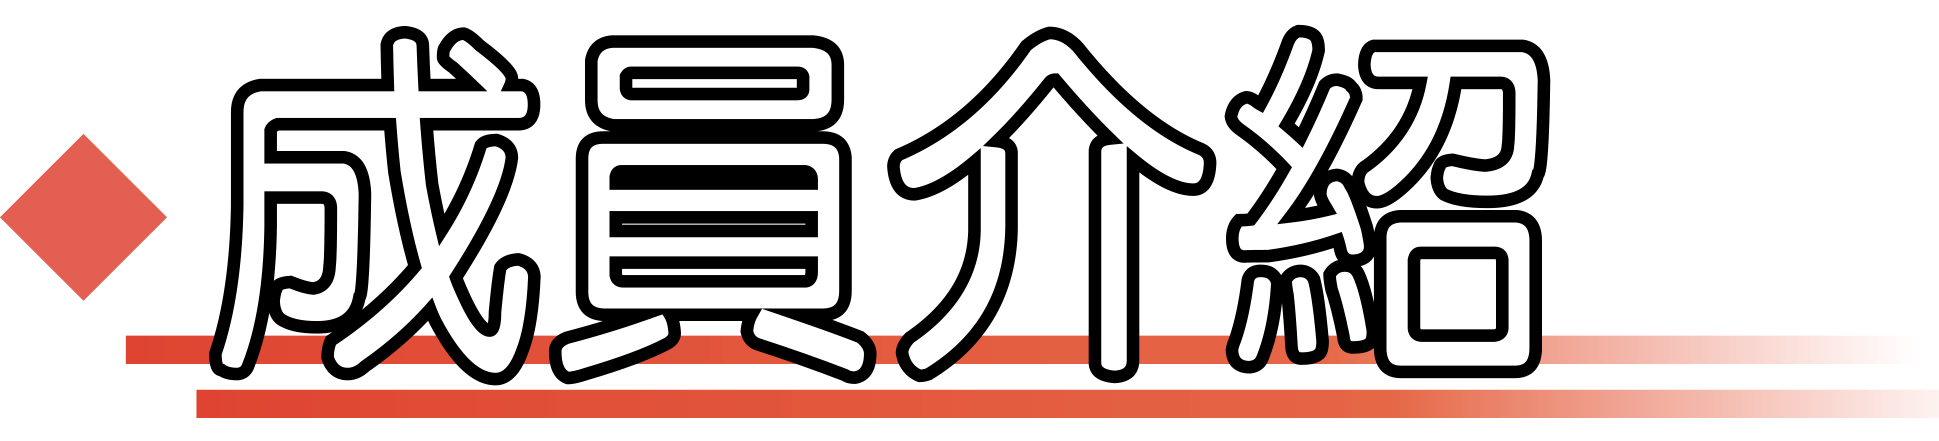
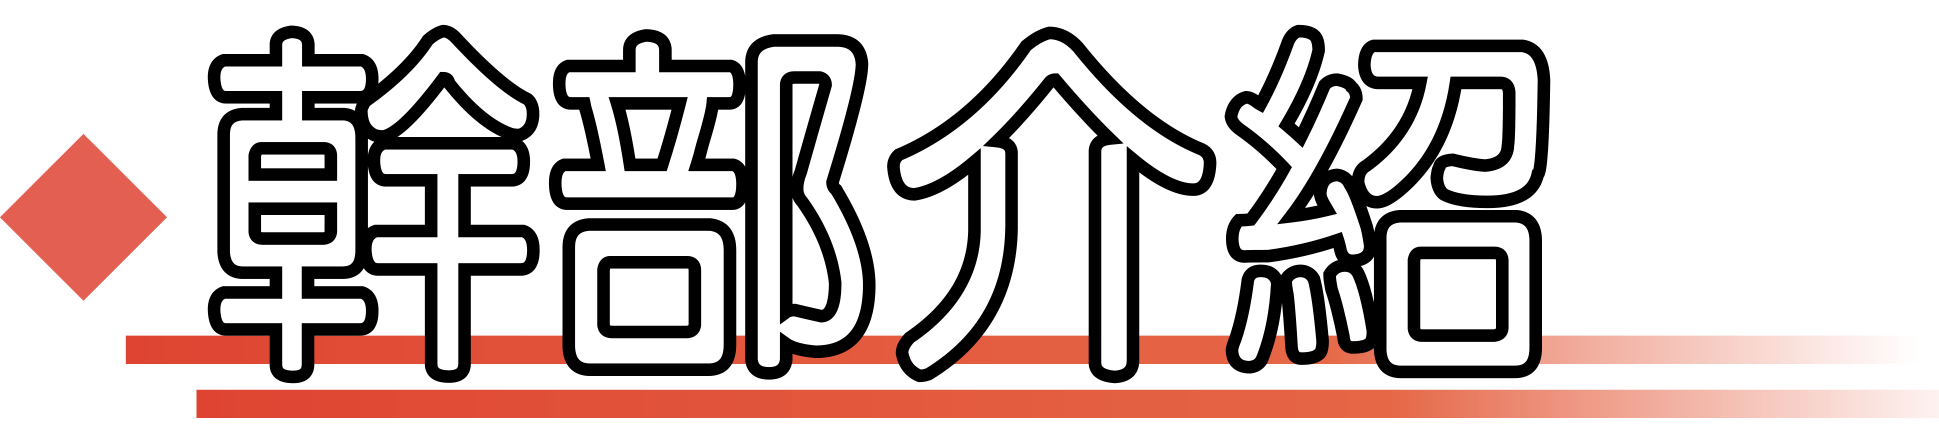
初步完成
初步完成

Changed region(s): [[0.0928, 0.059, 0.4642, 0.8844]]

diff --git a/index.html b/index.html
@@ -43,7 +43,28 @@
      <section id = "ForTitle2" class = "APage" >
        <img src="img/text-title2.png" class = "text-title" ><br>
        <section class = "InText">
-         第二個
+         <table class = "introduce-table" >
+           <tr>
+             <td class = "photo-td" ><a href = "https://www.facebook.com/profile.php?id=100000202016491&ref=ts&fref=ts" target = "_new" ><img src="img/organizers-1.png" class = "organizers" ></a></td>
+             <td class = "text-td" >社長：阿寶<br><br>科系：心理系<br><br>心理正妹一枚，運籌帷幄，掌握戲劇時脈，帶領大家創造美好未來。</td>
+           </tr>
+           <tr>
+             <td class = "photo-td" ><a href = "https://www.facebook.com/julie.nian.56" target = "_new" ><img src="img/organizers-2.png" class = "organizers" ></a></td>
+             <td class = "text-td" >副社長：粘粘<br><br>科系：生科系<br><br>生科正妹一枚，利用對於生物的了解，肢體、動作一手掌握。</td>
+           </tr>
+           <tr>
+             <td class = "photo-td" ><a href = "https://www.facebook.com/profile.php?id=100000194466346" target = "_new" ><img src="img/organizers-3.png" class = "organizers" ></a></td>
+             <td class = "text-td" >總務長：阿公<br><br>科系：資工系<br><br>話劇台柱之一，看透古今中外，悲歡離合的劇情，擅長小丑、三八。<br>粉絲頁：<a href = "https://www.facebook.com/GrandpaWorld" target = "_new" class = "GoTo-href" >點我</a></td>
+           </tr>
+           <tr>
+             <td class = "photo-td" ><a href = "https://www.facebook.com/profile.php?id=100002654291268" target = "_new" ><img src="img/organizers-4.png" class = "organizers" ></a></td>
+             <td class = "text-td" >活動長：菊花<br><br>科系：心理系<br><br>心理正妹一枚，擁有燦爛笑容，身手矯健，精通快速的臨場反應。<br>粉絲頁：<a href = "https://www.facebook.com/pages/%E6%88%B2%E8%8A%B1%E4%B8%AD%E7%9A%84%E8%8F%8A%E8%8A%B1/1401378870134507" target = "_new" class = "GoTo-href" >點我</a></td>
+           </tr>
+           <tr>
+             <td class = "photo-td" ><a href = "https://www.facebook.com/profile.php?id=100000364692411" target = "_new" ><img src="img/organizers-5.png" class = "organizers" ></a></td>
+             <td class = "text-td" >公關長：榴槤<br><br>科系：化工系<br><br>本社最帥小生，要多帥，就有多帥，外太空到內子宮，都有廣大粉絲群。<br>粉絲頁：<a href = "https://www.facebook.com/pages/景連的那些小事/507031376059915" target = "_new" class = "GoTo-href" >點我</a></td>
+           </tr>
+         </table>
        </section>
        <a href = "#ToTop"><img src="img/top.png" class = "top"></a>
      </section>
@@ -51,11 +72,23 @@
      <section id = "ForTitle3" class = "APage" >
        <img src="img/text-title3.png" class = "text-title" ><br>
        <section class = "InText">
-         第三個
+         朵拉瑪斯是一個聯合他校話劇社一起表演的一個活動，<br>
+         無須門票、入場費，演員們辛苦排演，<br>
+         就是要帶給觀眾一個故事，<br>
+         藉由演員們擴大的肢體、表情，<br>
+         帶領觀眾進入角色們的世界。<br><br>
+         朵拉製作特輯：<br>
+         <iframe width="540" height="360" src="//www.youtube.com/embed/8NTx8UJVX3A" frameborder="0" allowfullscreen></iframe>
        </section>
        <a href = "#ToTop"><img src="img/top.png" class = "top"></a>
      </section>
    </div>
   </div>
+  <footer class = "footer-ul" >
+    <ul>
+      <li><a href="https://www.facebook.com/cycudrama" target = "_new" class = "Botton-href" >粉絲專頁</a></li>
+      <li><a href="https://www.facebook.com/profile.php?id=100000194466346" target = "_new" class = "Botton-href" >聯絡製作人</a></li>
+    </ul>
+  </footer>
 </body>
 </html>

diff --git a/Isee.css b/Isee.css
@@ -55,3 +55,51 @@ body{
 .APage{
 
 }
+
+.organizers{
+  height:300px;
+  width:300px;
+}
+
+.introduce-table{
+  word-break: break-all;
+  font-size:30px;
+  width:800px;
+  border-collapse: collapse;
+}
+
+.photo-td {
+  width:300px;
+  border-style:groove;
+}
+
+.text-td {
+  border-style:groove;
+}
+
+.GoTo-href {
+  text-decoration:none;
+  color:#66FF33;
+}
+
+.GoTo-href:hover {
+  color:#FFFF00;
+}
+
+.footer-ul {
+  text-align:center;
+}
+
+.footer-ul ul li {
+  width: 100px;
+  display: inline-block;
+}
+
+.Botton-href {
+  text-decoration:none;
+  color:#0033CC;
+}
+
+.Botton-href:hover {
+  color:#00CC00;
+}
